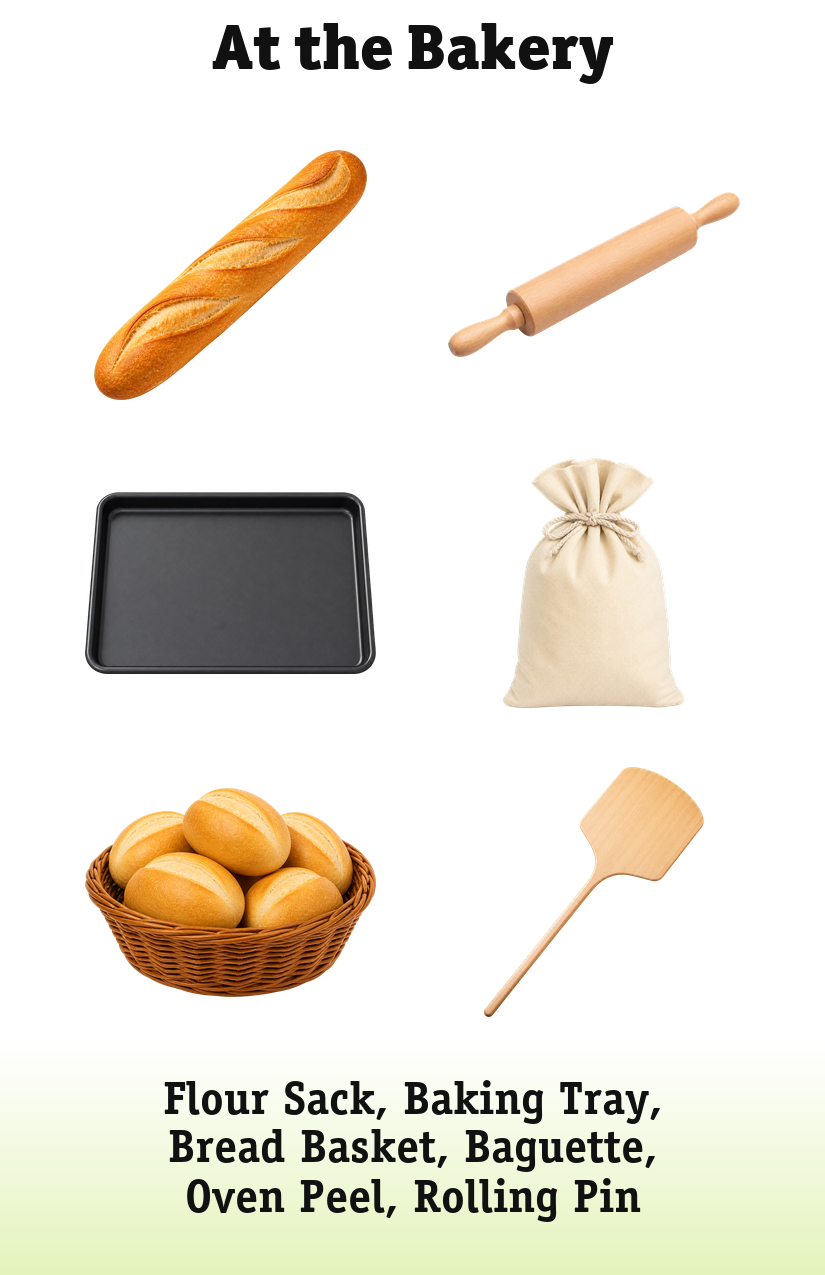
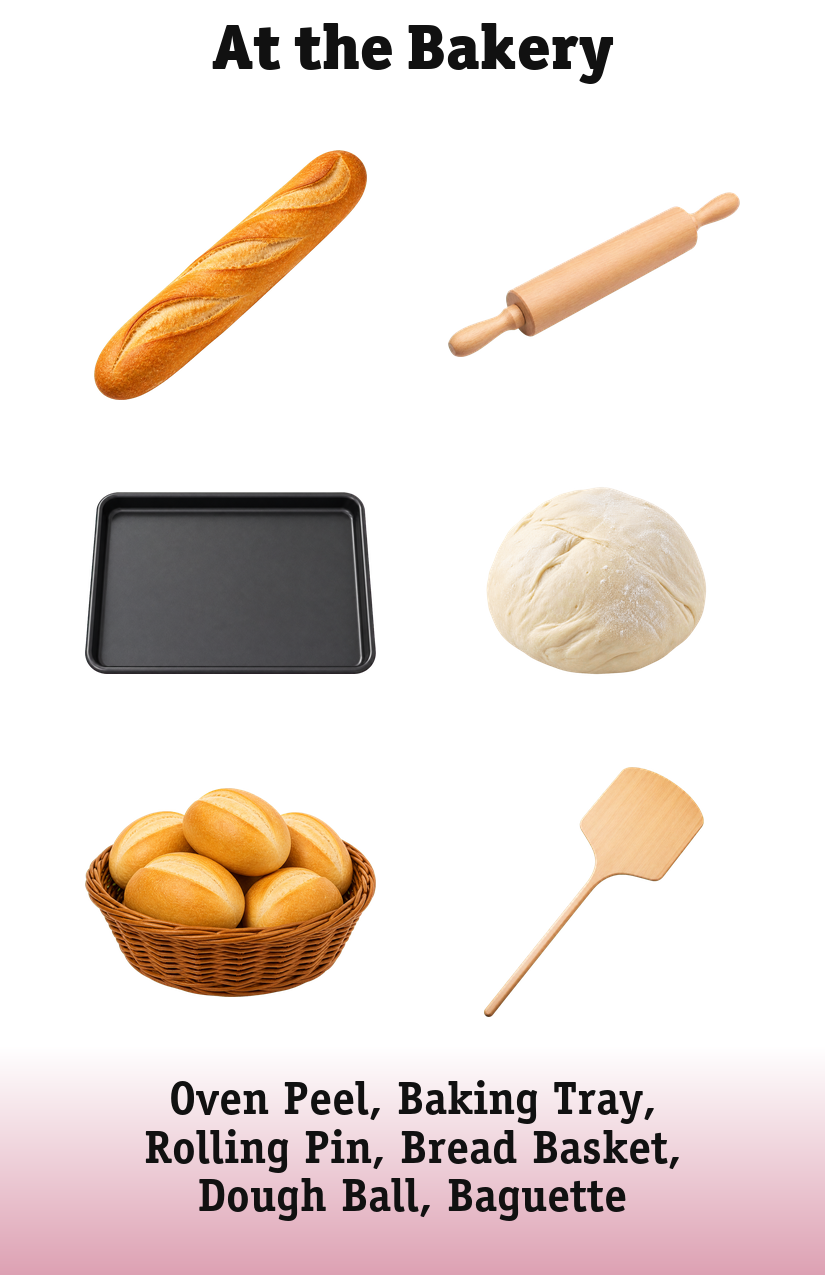
Rebuild At the Bakery pair set

Changed region(s): [[0.0, 0.8259, 1.0, 1.0], [0.5758, 0.3365, 0.8788, 0.5812]]

diff --git a/picture-this/game-data.js b/picture-this/game-data.js
@@ -500,7 +500,7 @@ window.PICTURE_THIS_GAME_DATA = {
     "Baguette",
     "Rolling Pin",
     "Baking Tray",
-    "Flour Sack",
+    "Dough Ball",
     "Bread Basket",
     "Oven Peel"
   ],
@@ -1406,6 +1406,46 @@ window.PICTURE_THIS_GAME_DATA = {
 window.PICTURE_THIS_GAME_META = {
   "schema_version": 1,
   "cards": {
+    "at-the-bakery": {
+      "title": "At the Bakery",
+      "category_answers": [
+        "At the Bakery",
+        "Bakery Items",
+        "Bakery Food and Tools"
+      ],
+      "tags": ["bakery", "bread", "baking", "food"],
+      "items": [
+        {"id": "baguette", "label": "Baguette", "answers": ["Baguette", "French Bread"]},
+        {"id": "rolling-pin", "label": "Rolling Pin", "answers": ["Rolling Pin"]},
+        {"id": "baking-tray", "label": "Baking Tray", "answers": ["Baking Tray", "Baking Sheet"]},
+        {"id": "dough-ball", "label": "Dough Ball", "answers": ["Dough Ball", "Dough", "Raw Dough"]},
+        {"id": "bread-basket", "label": "Bread Basket", "answers": ["Bread Basket"]},
+        {"id": "oven-peel", "label": "Oven Peel", "answers": ["Oven Peel", "Baker's Peel", "Pizza Peel"]}
+      ],
+      "links": [
+        {
+          "word": "baked",
+          "answers": ["baked", "baking"],
+          "items": ["baguette", "bread-basket"],
+          "explanation": "The baguette and bread basket are the only two items shown that contain finished baked bread.",
+          "audit": "exclusive-among-six-v1"
+        },
+        {
+          "word": "rolling",
+          "answers": ["rolling", "roll"],
+          "items": ["rolling-pin", "dough-ball"],
+          "explanation": "The rolling pin and dough ball are the only two items shown directly joined when a baker rolls dough.",
+          "audit": "exclusive-among-six-v1"
+        },
+        {
+          "word": "oven",
+          "answers": ["oven"],
+          "items": ["baking-tray", "oven-peel"],
+          "explanation": "The baking tray and oven peel are the only two tools shown specifically used to put food into or take food out of an oven.",
+          "audit": "exclusive-among-six-v1"
+        }
+      ]
+    },
     "at-the-office": {
       "title": "At the Office",
       "category_answers": [

diff --git a/picture-this/link-data.js b/picture-this/link-data.js
@@ -156,10 +156,7 @@ window.PICTURE_THIS_LINK_DATA = {
     pictureThisLink("time", [0,1], "The train ticket and platform clock are the only two items shown that normally display departure time.", ["schedule"]),
     pictureThisLink("signals", [3,5], "The track switch lever and conductor whistle are the only two operating signals shown.", ["signal"])
   ],
-  "at-the-bakery": [
-    pictureThisLink("rolling", [1,3], "The rolling pin and flour sack are the only two items shown directly associated with rolling dough.", ["roll"]),
-    pictureThisLink("loading", [2,5], "The baking tray and oven peel are the only two dedicated oven-handling tools shown.")
-  ],
+  "at-the-bakery": [],
   "at-the-police-station": [
     pictureThisLink("uniform", [0,3], "The police badge and cap are the only two parts of a police uniform shown."),
     pictureThisLink("dispatch", [2,5], "The police radio and police car are the only two items shown directly joined by dispatch communication.", ["communication"])
@@ -436,7 +433,7 @@ const auditedLinkAdditions = {
     pictureThisLink("brown", [0,3], "Menu folder and pepper grinder are the only two items shown predominantly brown."),
     pictureThisLink("silver", [1,2], "Serving tray and napkin ring are the only two items shown predominantly silver.")
   ],
-  "at-the-bakery": [pictureThisLink("bread", [0,4], "Baguette and bread basket are the only two items shown that form a baked product and its serving container pair.")],
+  "at-the-bakery": [],
   "at-the-police-station": [pictureThisLink("traffic", [4,5], "Baton and police car are the only two items shown routinely used by officers to direct or control road traffic.")],
   "at-the-campsite": [
     pictureThisLink("flames", [2,4], "Lantern and camp stove are the only two campsite devices shown that characteristically burn fuel."),

diff --git a/picture-this/question-data.js b/picture-this/question-data.js
@@ -2731,8 +2731,8 @@ window.PICTURE_THIS_QUESTION_DATA = {
   },
   "at-the-bakery": {
     "questions": [
-      "Which items are foods, and which are tools used by a baker?",
-      "Which item is longest? Which could hold several pieces of bread?",
+      "Which items are raw dough, baked bread, or tools?",
+      "Which item is longest? Which item is softest?",
       "What bakery foods do you enjoy eating or making?",
       "How might a baker use a rolling pin, baking tray, and oven peel?",
       "What other foods, smells, or tools might you find in a bakery?",
@@ -2741,35 +2741,35 @@ window.PICTURE_THIS_QUESTION_DATA = {
     "positions": [
       12.43,
       22.75,
-      37.41,
-      47.76,
-      58.16,
-      72.78
+      33.1,
+      43.45,
+      53.84,
+      68.47
     ],
     "endpoints": [
       {
-        "x": 90.67,
-        "y": 16.63
+        "x": 66.18,
+        "y": 16.82
       },
       {
-        "x": 29.21,
-        "y": 31.29
+        "x": 50.06,
+        "y": 26.94
       },
       {
-        "x": 56.48,
-        "y": 42.0
+        "x": 56.85,
+        "y": 37.69
       },
       {
-        "x": 90.42,
-        "y": 52.35
+        "x": 90.79,
+        "y": 48.04
       },
       {
-        "x": 32.0,
-        "y": 67.02
+        "x": 32.36,
+        "y": 62.71
       },
       {
-        "x": 82.55,
-        "y": 77.02
+        "x": 82.91,
+        "y": 72.9
       }
     ]
   },
